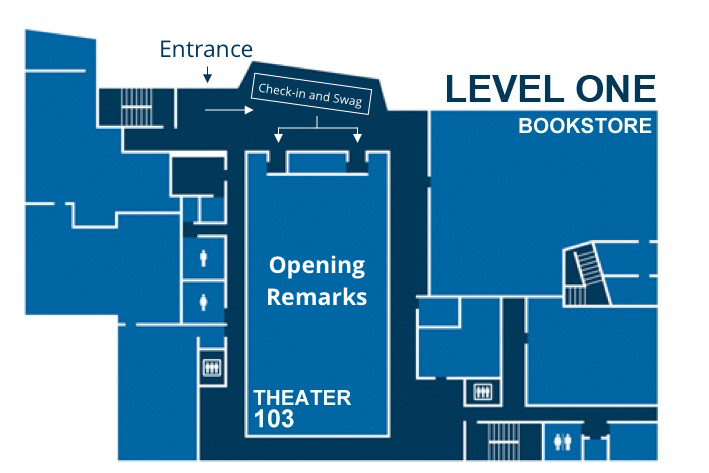
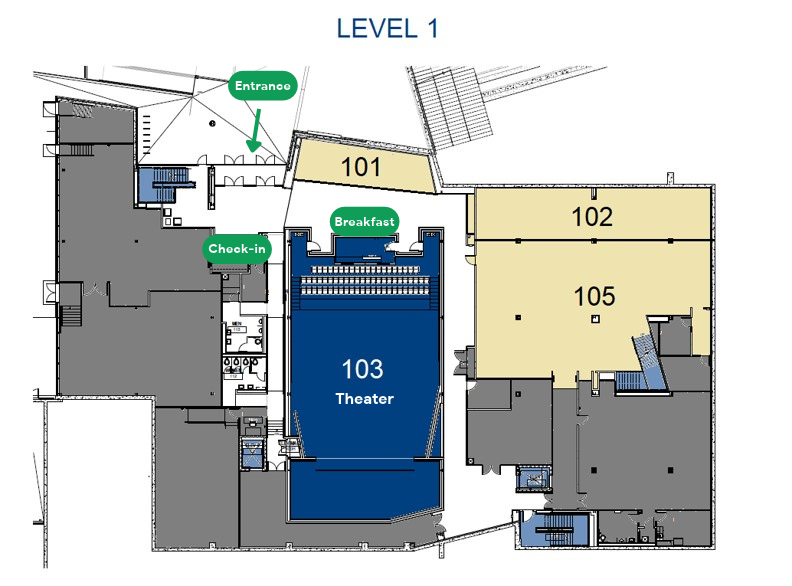
Update maps and CoC link for 2026

diff --git a/src/pages/Schedule.tsx b/src/pages/Schedule.tsx
@@ -14,7 +14,6 @@ import { getSpeakers } from 'store/speakers/selectors';
 import { Button, Typography } from '@mui/material';
 
 import FirstFloorMap from '/assets/map1.png';
-import SecondFloorMap from '/assets/map2.png';
 import FourthFloorMap from '/assets/map4.png';
 
 import './Schedule.scss';
@@ -136,7 +135,6 @@ const SchedulePage: FC<ScheduleProps> = ({ timezone, scheduled, unscheduled, spe
         <h1>Venue Map</h1>
         <div className="container mapBox">
           {buildMapImage('First Floor', FirstFloorMap)}
-          {buildMapImage('Second Floor', SecondFloorMap)}
           {buildMapImage('Fourth Floor', FourthFloorMap)}
         </div>
       </div>

diff --git a/src/assets/code_of_conduct.md b/src/assets/code_of_conduct.md
@@ -55,7 +55,7 @@ You can make a report either personally or anonymously.
 
 Anonymous Report
 ----------------
-You can make an anonymous report [here](https://forms.gle/RF4Pw64byLa2fuRu5). Your contact information is not collected, unless explicitly provided. If you choose to provide your information, we will follow up. In either case, we will fully investigate it and take whatever action is necessary to prevent a recurrence.
+You can make an [anonymous report here](https://docs.google.com/forms/d/e/1FAIpQLScsmXbS-F2q3hyvIJKED6RVgY-4hiPX210EUjJkw9JLMkITEQ/viewform?usp=publish-editor). Your contact information is not collected, unless explicitly provided. If you choose to provide your information, we will follow up. In either case, we will fully investigate it and take whatever action is necessary to prevent a recurrence.
 
 Personal Report
 ---------------
